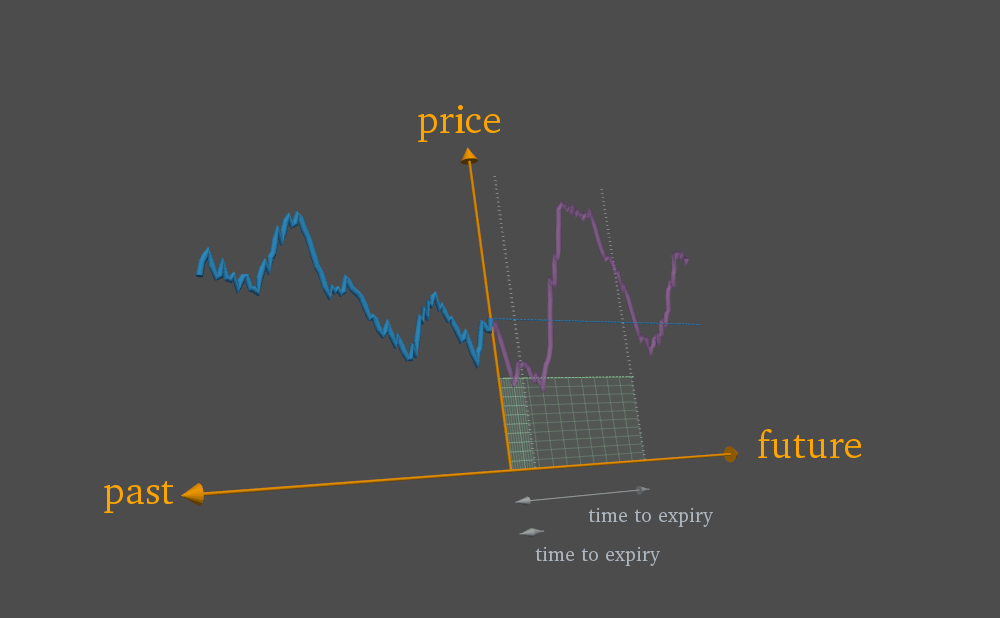
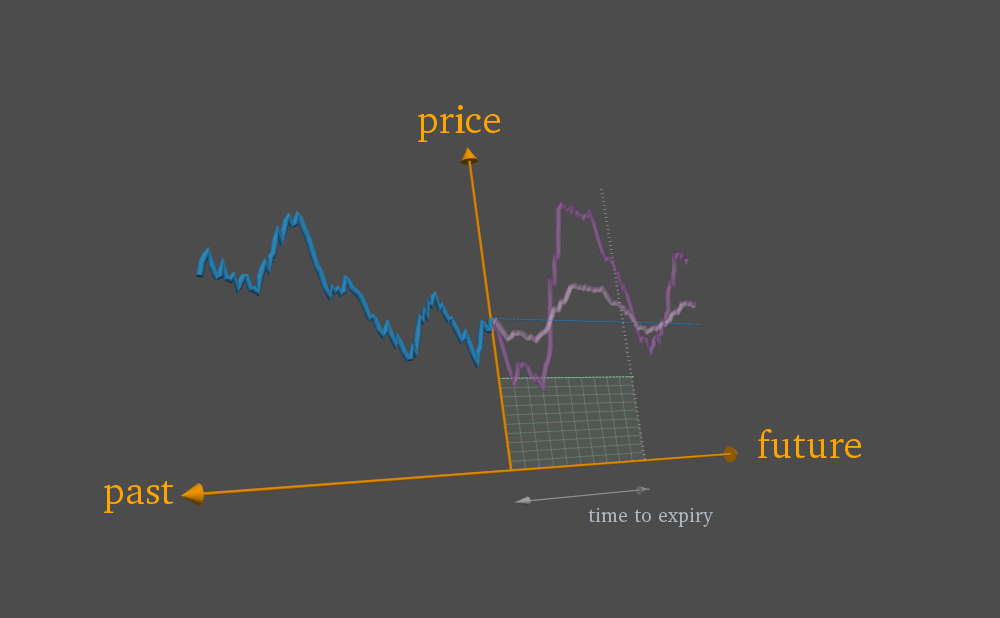
comparison 3 done

diff --git a/src/options_001.py b/src/options_001.py
@@ -67,7 +67,7 @@ def generateRandomPath(startX, stopX, anchorAtStart=True, anchorYPos=0, r=0.5,sc
 
     return tube
 
-def generateRandomSinPath(startX, stopX, anchorAtStart=True, anchorYPos=0, r=0.5, sinR= 3,scalars = None, useOld=True):
+def generateRandomSinPath(startX, stopX, anchorAtStart=True, anchorYPos=0, r=0.5, sinR= 3,scalars = None, useOld=True, vol=1):
 
     if scalars is None:
         nPts = 100
@@ -78,15 +78,18 @@ def generateRandomSinPath(startX, stopX, anchorAtStart=True, anchorYPos=0, r=0.5
     zPts = np.zeros(nPts)
     yPts = - np.sin(xPts + np.pi/6)*sinR
     yPts += np.cumsum( (np.random.rand(nPts) - 0.5)*r )
-    if anchorAtStart:
-        yPts = yPts - yPts[0] + anchorYPos
-    else:
-        yPts = yPts - yPts[-1] + anchorYPos
+
 
     if useOld:
         yPts = np.load('../images/yPts.npy')
     else:
         np.save('../images/yPts.npy', yPts)
+    
+    yPts *= vol
+    if anchorAtStart:
+        yPts = yPts - yPts[0] + anchorYPos
+    else:
+        yPts = yPts - yPts[-1] + anchorYPos
 
     points = np.column_stack((xPts, yPts, zPts))
     if scalars is None:
@@ -264,7 +267,6 @@ def probabilities():
     
     return 
 
-
 def compareCurrentAndStrike():
 
 
@@ -316,8 +318,6 @@ def compareCurrentAndStrike():
     print(cPos)
     
     return 
-
-
 
 def compareExpiry():
 
@@ -371,8 +371,66 @@ def compareExpiry():
     
     return 
 
+def compareVol():
+
+
+    knownPath = generateRandomPath(
+                -10, 0, 
+                anchorAtStart=False, anchorYPos=5, 
+                r=1, scalars = None, useOld=True)
+
+    unknownPath = generateRandomSinPath(
+                    0, 10, 
+                    anchorAtStart=True, anchorYPos=5, 
+                    r=1, sinR = 2, scalars = None, useOld=True)
+    
+    unknownPath1 = generateRandomSinPath(
+                    0, 10, 
+                    anchorAtStart=True, anchorYPos=5, 
+                    r=1, sinR = 2, scalars = None, useOld=True, vol=0.2)
+
+    
+    # pv.set_plot_theme('document')
+    cPos = [(-23.05612034150191, -2.7693125110075827, 29.020487596695087),
+            (0.4523407025296695, 5.3499999940395355, 0.0),
+            (-0.02717479322234445, 0.96815896925231, 0.248856868238808)]
+
+
+    p = pv.Plotter(
+            window_size=(1000, int(1000/1.618)),
+            polygon_smoothing=True,
+            point_smoothing=True,
+            line_smoothing=True,)
+
+    # Figure (a)
+    p.reset_camera()
+    addBasicsToPlotter(p, 2)
+
+    generatePutOption(p, putPos=3, size=6, zPos=0, showText=False)
+
+    p.add_mesh( knownPath, color='#3498db' )
+    p.add_mesh( unknownPath, color='#af7ac5', opacity=0.5 )
+    p.add_mesh( unknownPath1, color='#f9e79f', opacity=0.5 )
+
+    p.add_point_labels([(-13,-0.25,0), (12,-0.5,0), (-2,11,0)], [ 'past', 'future', 'price'], 
+        font_family='times', font_size=40, fill_shape=False, shape=None, 
+        bold=False, text_color='orange',
+        show_points=False, point_size=0, point_color=(0.3,0.3,0.3))
+
+   
+
+    p.reset_camera()
+    p.link_views()
+    # cPos = p.show(screenshot='../images/probs_1.png')
+    cPos = p.show(cpos = cPos, screenshot='../images/probs_3.png')
+
+    print(cPos)
+    
+    return 
+
 if __name__ == '__main__':
     # multiPath()
     # probabilities()
     # compareCurrentAndStrike()
-    compareExpiry()
+    # compareExpiry()
+    compareVol()
